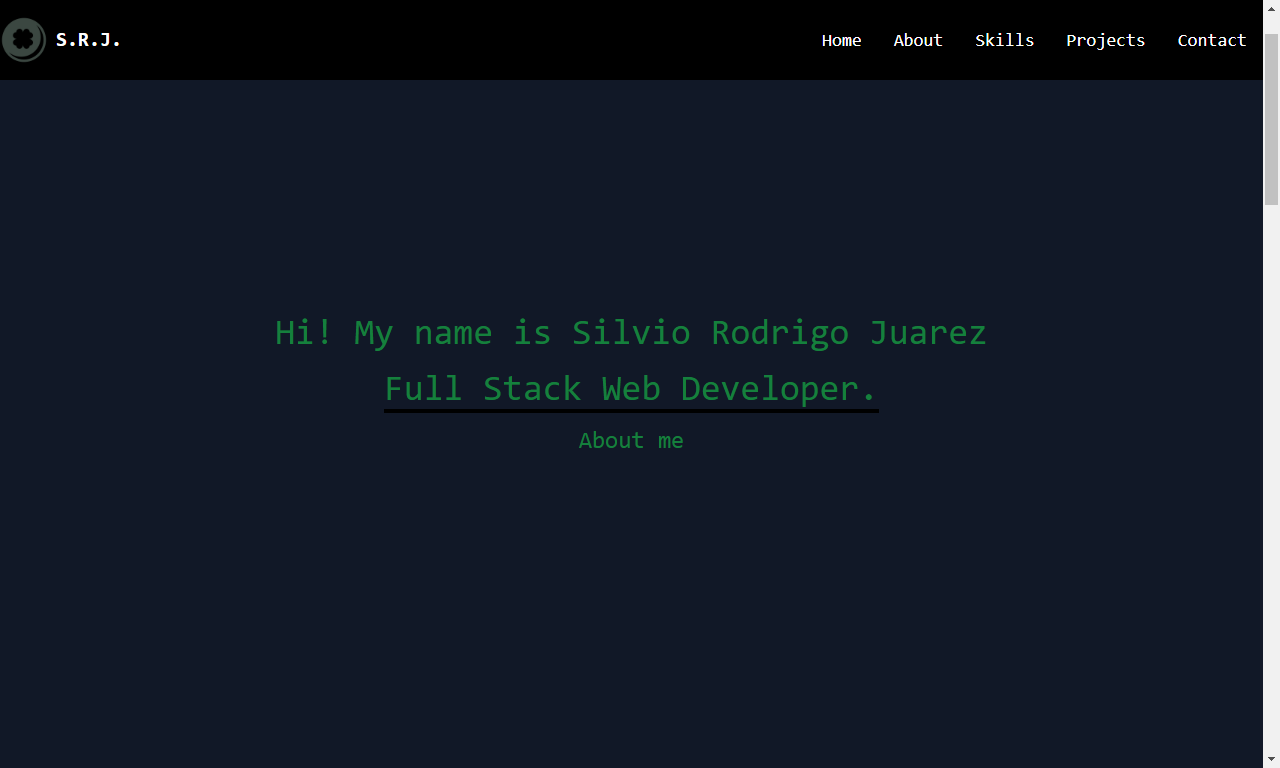
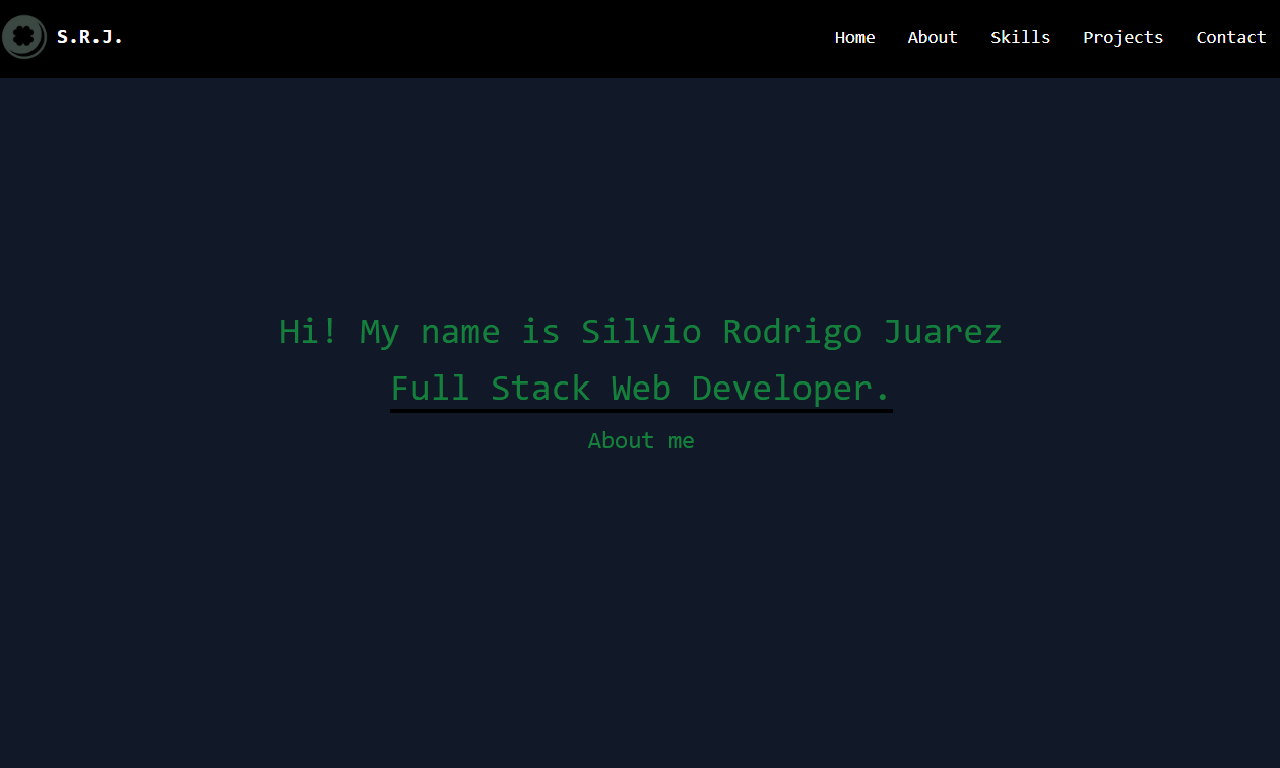
Projects

diff --git a/portfolio/src/App.jsx b/portfolio/src/App.jsx
@@ -1,31 +1,34 @@
-import "./App.css";
 import Home from "./components/mainViewPortfolioFiles/home/home";
 import About from "./components/mainViewPortfolioFiles/about/about";
 import Nav from "./components/commonComponents/nav/nav";
 import Skills from "./components/mainViewPortfolioFiles/skills/skills";
 import Projects from "./components/mainViewPortfolioFiles/projects/projects";
 import Contact from "./components/mainViewPortfolioFiles/contact/contact";
+import { Route, Routes } from "react-router-dom";
+import DetailProject from "./components/mainViewPortfolioFiles/detailProjects/detailProject.jsx";
 
 function App() {
   return (
-    <div>
+    <div className="min-h-screen flex flex-col">
       <Nav />
-      <div id="home-section">
+      <div id="home-section" className="flex-grow bg-gray-800">
         <Home />
       </div>
-      <div id="about-section" className="about-section">
+      <div id="about-section" className="flex-grow bg-gray-800">
         <About />
       </div>
-      <div id="skills-section" className="skills-section">
+      <div id="skills-section" className="flex-grow bg-gray-800">
         <Skills />
       </div>
-      <div id="projects-section" className="projects-section">
+      <div id="projects-section" className="flex-grow bg-gray-800">
         <Projects />
       </div>
-      <div id="contact-section" className="contact-section">
+      <div id="contact-section" className="flex-grow bg-gray-800">
         <Contact />
       </div>
-      <div style={{ minHeight: "100vh" }}></div>
+      <Routes>
+        <Route path="/detail-project" element={DetailProject} />
+      </Routes>
     </div>
   );
 }

diff --git a/portfolio/src/components/commonComponents/projectComponents/project.jsx b/portfolio/src/components/commonComponents/projectComponents/project.jsx
@@ -1,11 +1,41 @@
+import { useState } from "react";
+import { Link } from "react-router-dom";
 function Project(props) {
-  const { title, description, img } = props;
+  const { title, img } = props;
+  const [hovered, setHovered] = useState(false);
+
+  const handleMouseEnter = () => {
+    setHovered(true);
+  };
+
+  const handleMouseLeave = () => {
+    setHovered(false);
+  };
 
   return (
-    <div>
-      <h2>{title}</h2>
-      <p>{description}</p>
-      <img src={img} alt={title} />
+    <div
+      className="relative rounded-md overflow-hidden bg-grey-800 border-4 bg-gradient-to-r from-black border-green-700 scale-x-75 scale-y-75 bg-gray-800"
+      onMouseEnter={handleMouseEnter}
+      onMouseLeave={handleMouseLeave}
+    >
+      <h2 className="font-mono font-bold text-green-700 text-2xl py-6">
+        {title}
+      </h2>
+      <img
+        src={img}
+        alt={title}
+        className="border-t-4 border-green-700 transition-opacity duration-300 ease-in-out group-hover:opacity-50"
+      />
+
+      {hovered && (
+        <div className="absolute inset-0 flex justify-center items-center bg-black bg-opacity-80">
+          <Link to="/detail-project">
+            <button className="text-white bg-green-700 py-2 px-4 rounded font-mono">
+              More Info
+            </button>
+          </Link>
+        </div>
+      )}
     </div>
   );
 }

diff --git a/portfolio/src/components/mainViewPortfolioFiles/projects/projects.jsx b/portfolio/src/components/mainViewPortfolioFiles/projects/projects.jsx
@@ -5,17 +5,15 @@ const Projects = () => {
   const projectSection = useRef(null);
 
   return (
-    <section
-      id="projects"
-      className="py-36 grid grid-cols-3 gap-4 text-center"
-      ref={projectSection}
-    >
+    <section id="projects" className="py-36 text-center" ref={projectSection}>
       <div className="col-span-3 mb-8">
         <h2 className="text-2xl font-bold font-mono text-green-700">
           Projects
         </h2>
       </div>
-      <ProjectContainer />
+      <div className="flex justify-center items-center w-full">
+        <ProjectContainer />
+      </div>
     </section>
   );
 };

diff --git a/portfolio/index.html b/portfolio/index.html
@@ -13,9 +13,17 @@
     />
   </head>
   <body
-    class="justify-center min-h-screen bg-gray-900 bg-cover bg-no-repeat bg-fixed"
+    class="justify-center min-h-screen bg-gray-800 bg-cover bg-no-repeat bg-fixed"
   >
     <div id="root"></div>
     <script type="module" src="/src/main.jsx"></script>
+    <script
+      type="module"
+      src="https://unpkg.com/ionicons@7.1.0/dist/ionicons/ionicons.esm.js"
+    ></script>
+    <script
+      nomodule
+      src="https://unpkg.com/ionicons@7.1.0/dist/ionicons/ionicons.js"
+    ></script>
   </body>
 </html>

diff --git a/portfolio/src/components/commonComponents/projectComponents/projectContainer.jsx b/portfolio/src/components/commonComponents/projectComponents/projectContainer.jsx
@@ -3,14 +3,9 @@ import Project from "./project.jsx";
 
 function ProjectContainer() {
   return (
-    <div>
+    <div className="grid grid-cols-2 gap-4">
       {projectData.map((project) => (
-        <Project
-          key={project.id}
-          title={project.title}
-          description={project.description}
-          img={project.img}
-        />
+        <Project key={project.id} title={project.title} img={project.img} />
       ))}
     </div>
   );

diff --git a/portfolio/src/components/mainViewPortfolioFiles/skills/skills.jsx b/portfolio/src/components/mainViewPortfolioFiles/skills/skills.jsx
@@ -48,7 +48,7 @@ const Skills = () => {
       case "Nodemailer":
         return <SiMinutemailer className="text-green-500 text-7xl" />;
       case "PostgreSQL":
-        return <BiLogoPostgresql className="text-blue-400 text-7xl" />;
+        return <BiLogoPostgresql className="text-blue-500 text-7xl" />;
       case "SQL":
         return <AiOutlineConsoleSql className="text-green-500 text-7xl" />;
       case "Sequelize":

diff --git a/portfolio/src/components/mainViewPortfolioFiles/detailProjects/detailProject.jsx b/portfolio/src/components/mainViewPortfolioFiles/detailProjects/detailProject.jsx
@@ -1,0 +1,11 @@
+import { projectData } from "../../commonComponents/projectComponents/projectData.js";
+
+const DetailProject = () => {
+  return (
+    <div>
+      <h1>DetailProject</h1>
+    </div>
+  );
+};
+
+export default DetailProject;
